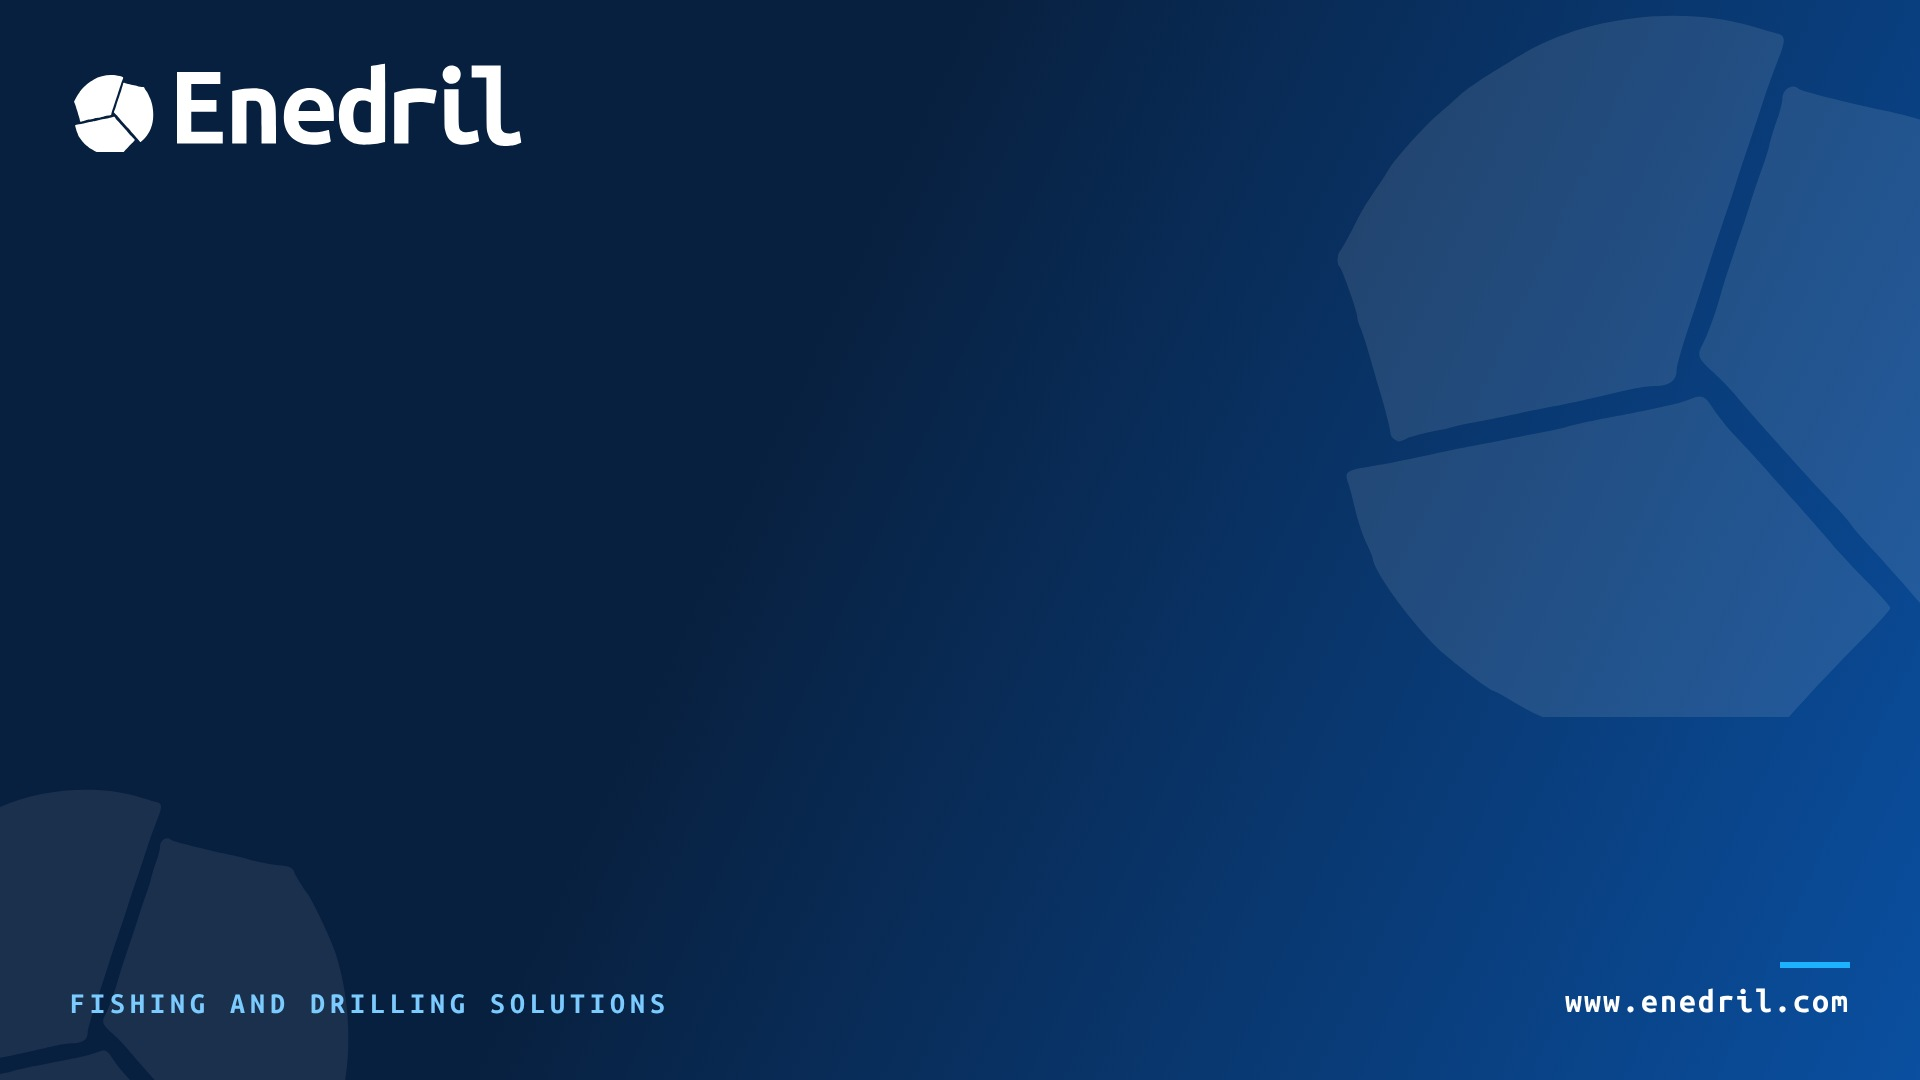
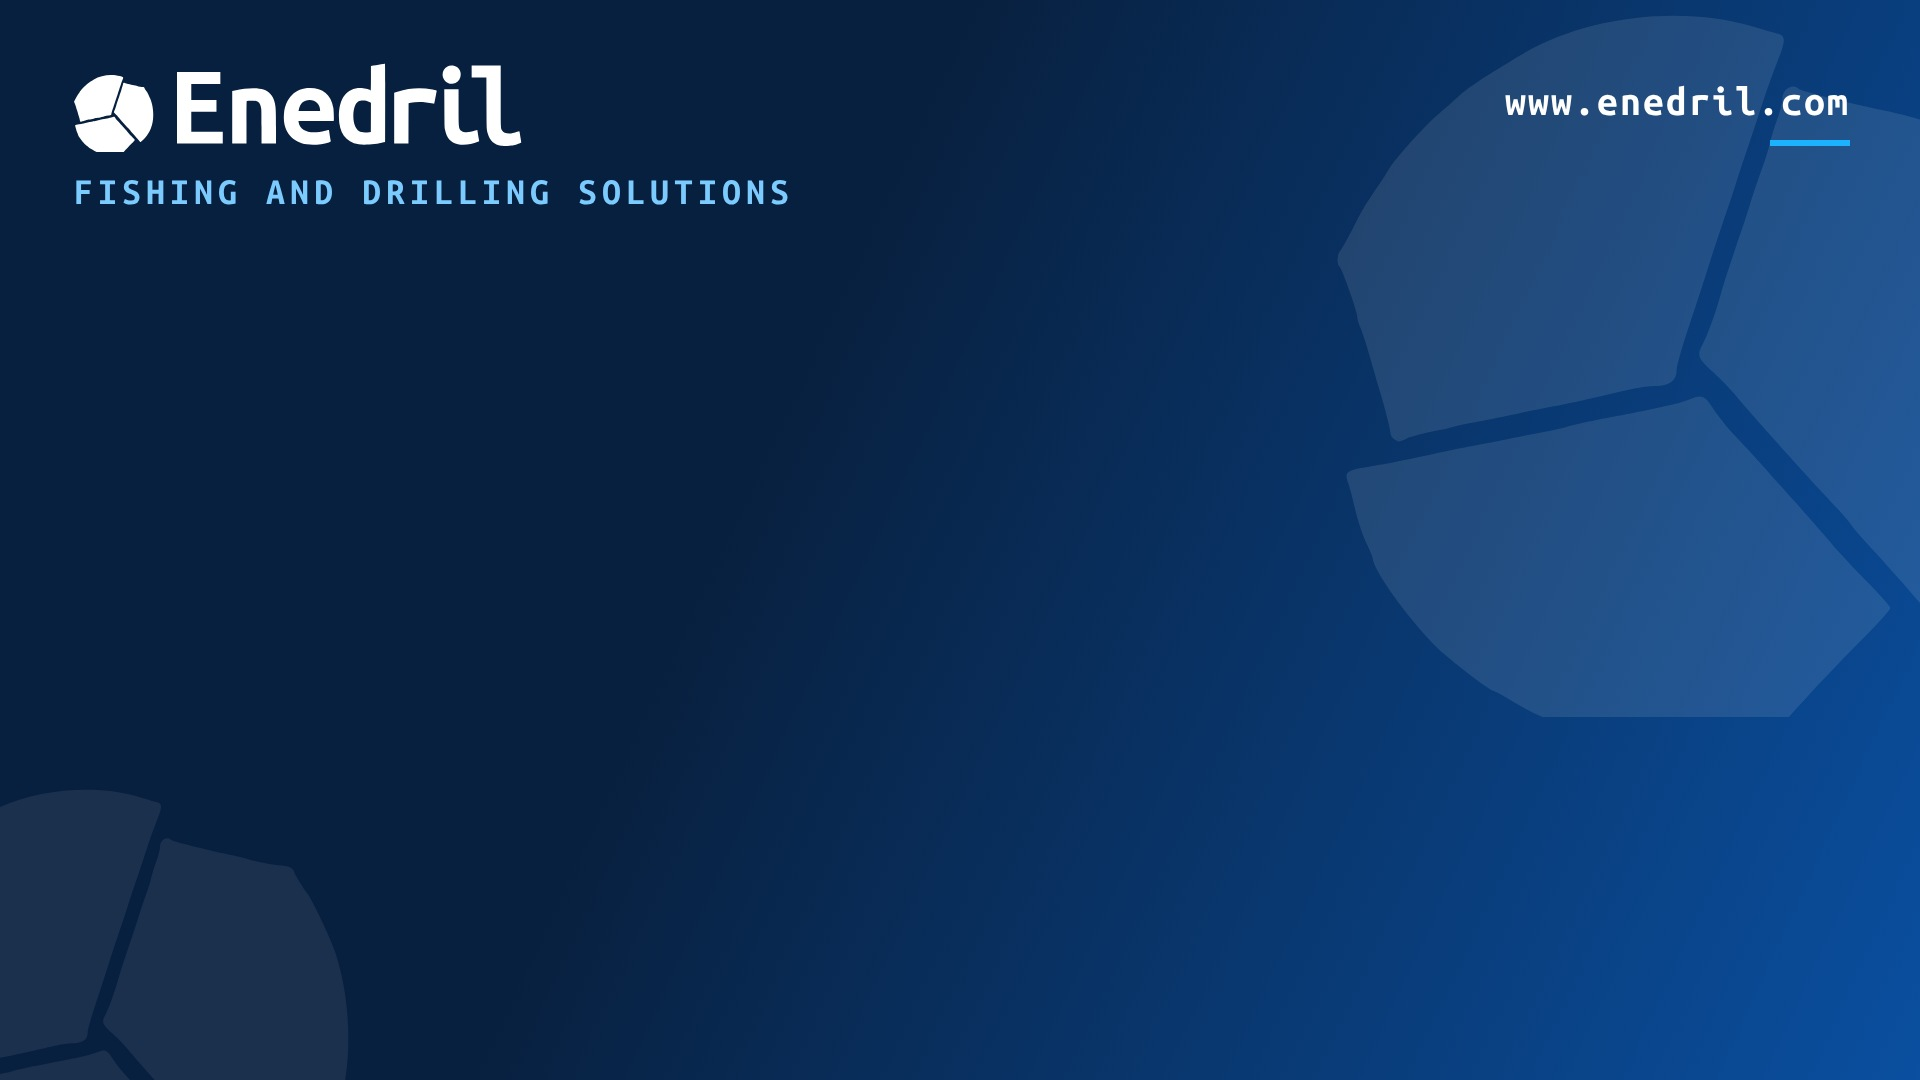
Teams A : texte en haut, plus grand
Claude-Session: https://claude.ai/code/session_01XPwnZBmWUGhvYebrP3X3Z2

diff --git a/teams_arriere_plans/generer_arriere_plans.py b/teams_arriere_plans/generer_arriere_plans.py
@@ -14,9 +14,9 @@ CSS="html,body{margin:0;width:1920px;height:1080px;overflow:hidden}.b{position:r
 A=f'''<div class="b" style="background:linear-gradient(115deg,#08203F 0%,#08203F 40%,#0A4FA0 100%)">
 {icon(760,.10,'right:-140px;top:-120px')}{icon(520,.07,'left:-170px;bottom:-190px')}
 <div style="position:absolute;left:70px;top:60px">{logo_w(92)}</div>
-<div style="position:absolute;left:70px;bottom:62px;color:#7CCBFF;font-size:30px;letter-spacing:5px;font-weight:bold">FISHING AND DRILLING SOLUTIONS</div>
-<div style="position:absolute;right:70px;bottom:62px;color:#fff;font-size:34px;font-weight:bold;letter-spacing:2px">www.enedril.com</div>
-<div style="position:absolute;right:70px;bottom:112px;width:70px;height:6px;background:#1CB2FE"></div></div>'''
+<div style="position:absolute;left:74px;top:172px;color:#7CCBFF;font-size:38px;letter-spacing:5px;font-weight:bold">FISHING AND DRILLING SOLUTIONS</div>
+<div style="position:absolute;right:70px;top:80px;color:#fff;font-size:42px;font-weight:bold;letter-spacing:2px">www.enedril.com</div>
+<div style="position:absolute;right:70px;top:140px;width:80px;height:6px;background:#1CB2FE"></div></div>'''
 B=f'''<div class="b" style="background:#EEF5FB">
 <svg style="position:absolute;left:0;top:0" width="1920" height="1080"><polygon points="1180,1080 1920,640 1920,1080" fill="#0A4FA0"/><polygon points="1500,1080 1920,830 1920,1080" fill="#1CB2FE"/></svg>
 <div style="position:absolute;left:70px;top:60px">{logo_c(92)}</div>
